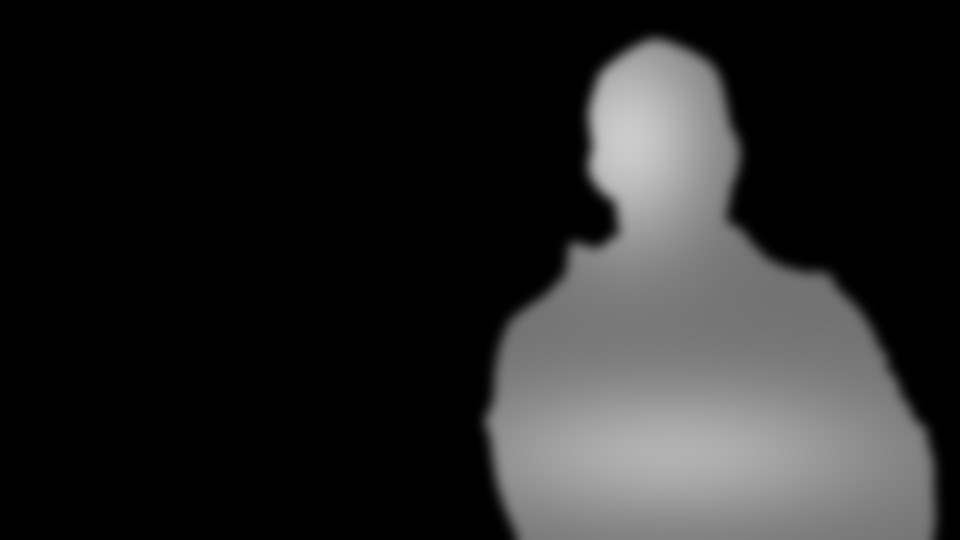
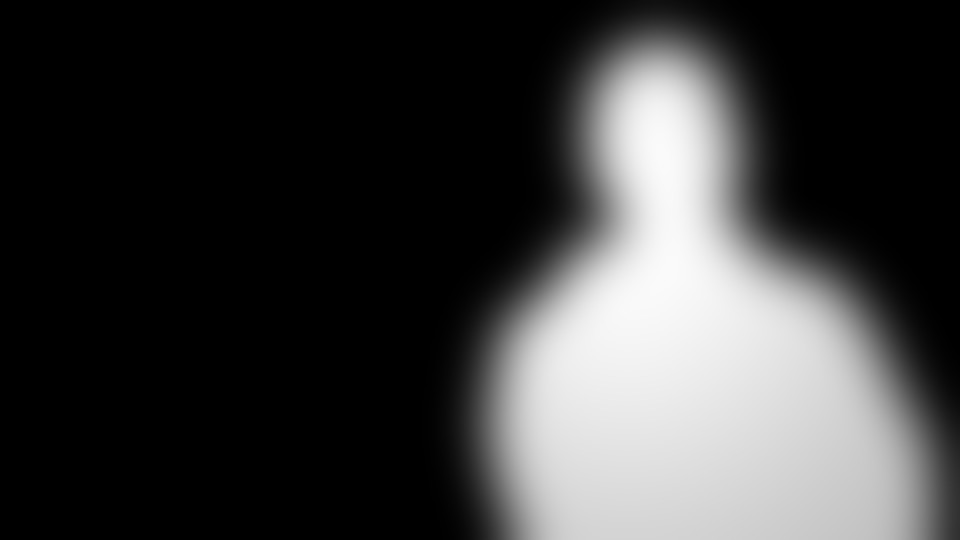
Hero: no image warping from the fluid, gentler depth, softer natural colour reveal
Claude-Session: https://claude.ai/code/session_01AuD3osCgjSG9W5qoHnR4NA

diff --git a/public/js/hero.js b/public/js/hero.js
@@ -37,7 +37,7 @@
     velDiss: 0.4, dyeDiss: 1.6,    // how quickly motion and colour fade
     radius: phone ? 0.006 : 0.0032,
     force: 5200,
-    depth: phone ? 0.02 : 0.032,    // parallax strength
+    depth: phone ? 0.008 : 0.012,  // parallax strength (kept low so the face never warps)
     dpr: Math.min(window.devicePixelRatio || 1, phone ? 1.25 : 1.5)
   };
 
@@ -129,11 +129,10 @@
       ' vec2 uv = (vUv - .5) * uScale + uFocus;' +
       ' float d = texture2D(uDepth, uv).r;' +
       ' uv += uOffset * (d - .5) * uDepthAmt;' +                       // nearer pixels move further: depth parallax
-      ' uv += texture2D(uVel, vUv).xy * .00003;' +                     // the fluid gently bends the image
       ' vec3 c = texture2D(uPhoto, uv).rgb;' +
       ' float l = dot(c, vec3(.299, .587, .114)); float g = clamp((l - .5) * 1.12 + .5, 0., 1.) * .8;' + // matches the fallback img grade
-      ' float m = smoothstep(.0, .4, texture2D(uDye, vUv).r) * uReady;' +
-      ' vec3 col = mix(vec3(g), clamp(c * (g / max(l, .002)), 0., 1.), m);' +   // colour arrives at the same brightness, so only the saturation changes
+      ' float m = (1. - exp(-texture2D(uDye, vUv).r * 2.2)) * uReady;' +
+      ' vec3 col = vec3(g) + (c - vec3(l)) * .7 * m;' +                  // add the photo's own colour on top of the grade: same brightness, natural tones
       ' gl_FragColor = vec4(col, 1.); }'
   };
 

diff --git a/src/js/hero.js b/src/js/hero.js
@@ -37,7 +37,7 @@
     velDiss: 0.4, dyeDiss: 1.6,    // how quickly motion and colour fade
     radius: phone ? 0.006 : 0.0032,
     force: 5200,
-    depth: phone ? 0.02 : 0.032,    // parallax strength
+    depth: phone ? 0.008 : 0.012,  // parallax strength (kept low so the face never warps)
     dpr: Math.min(window.devicePixelRatio || 1, phone ? 1.25 : 1.5)
   };
 
@@ -129,11 +129,10 @@
       ' vec2 uv = (vUv - .5) * uScale + uFocus;' +
       ' float d = texture2D(uDepth, uv).r;' +
       ' uv += uOffset * (d - .5) * uDepthAmt;' +                       // nearer pixels move further: depth parallax
-      ' uv += texture2D(uVel, vUv).xy * .00003;' +                     // the fluid gently bends the image
       ' vec3 c = texture2D(uPhoto, uv).rgb;' +
       ' float l = dot(c, vec3(.299, .587, .114)); float g = clamp((l - .5) * 1.12 + .5, 0., 1.) * .8;' + // matches the fallback img grade
-      ' float m = smoothstep(.0, .4, texture2D(uDye, vUv).r) * uReady;' +
-      ' vec3 col = mix(vec3(g), clamp(c * (g / max(l, .002)), 0., 1.), m);' +   // colour arrives at the same brightness, so only the saturation changes
+      ' float m = (1. - exp(-texture2D(uDye, vUv).r * 2.2)) * uReady;' +
+      ' vec3 col = vec3(g) + (c - vec3(l)) * .7 * m;' +                  // add the photo's own colour on top of the grade: same brightness, natural tones
       ' gl_FragColor = vec4(col, 1.); }'
   };
 
